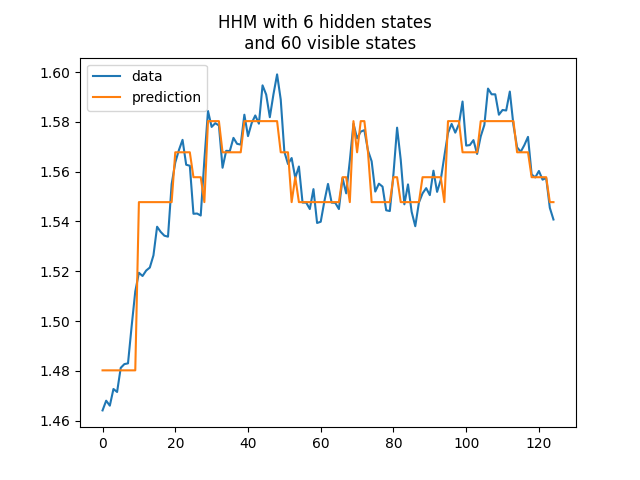
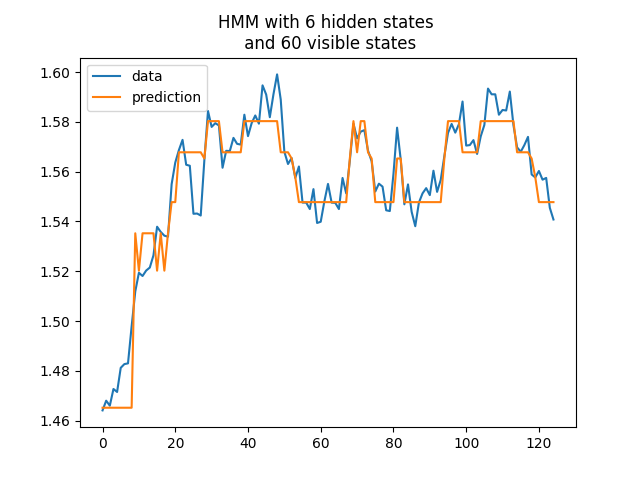
modified:   12-60.png 	modified:   4-60.png 	modified:   6-60.png 	modified:   8-60.png

diff --git a/HiddenMarkovModel.py b/HiddenMarkovModel.py
@@ -167,7 +167,7 @@ class HiddenMarkov():
 		
 
 if __name__=='__main__':
-	n_hidden = 12
+	n_hidden = 4
 	n_visible = 60
 	#initialize a Hidden Markov model
 	hm = HiddenMarkov(n_hidden, n_visible)
@@ -189,7 +189,7 @@ if __name__=='__main__':
 	pred = hm.reverse_trasform(pred)
 
 	plt.figure()
-	plt.title("HHM with "+ str(n_hidden) +" hidden states \n and " + str(n_visible)+ " visible states")
+	plt.title("HMM with "+ str(n_hidden) +" hidden states \n and " + str(n_visible)+ " visible states")
 	plt.plot(given, label = 'data')
 	plt.plot(pred, label = 'prediction')
 	plt.legend()
